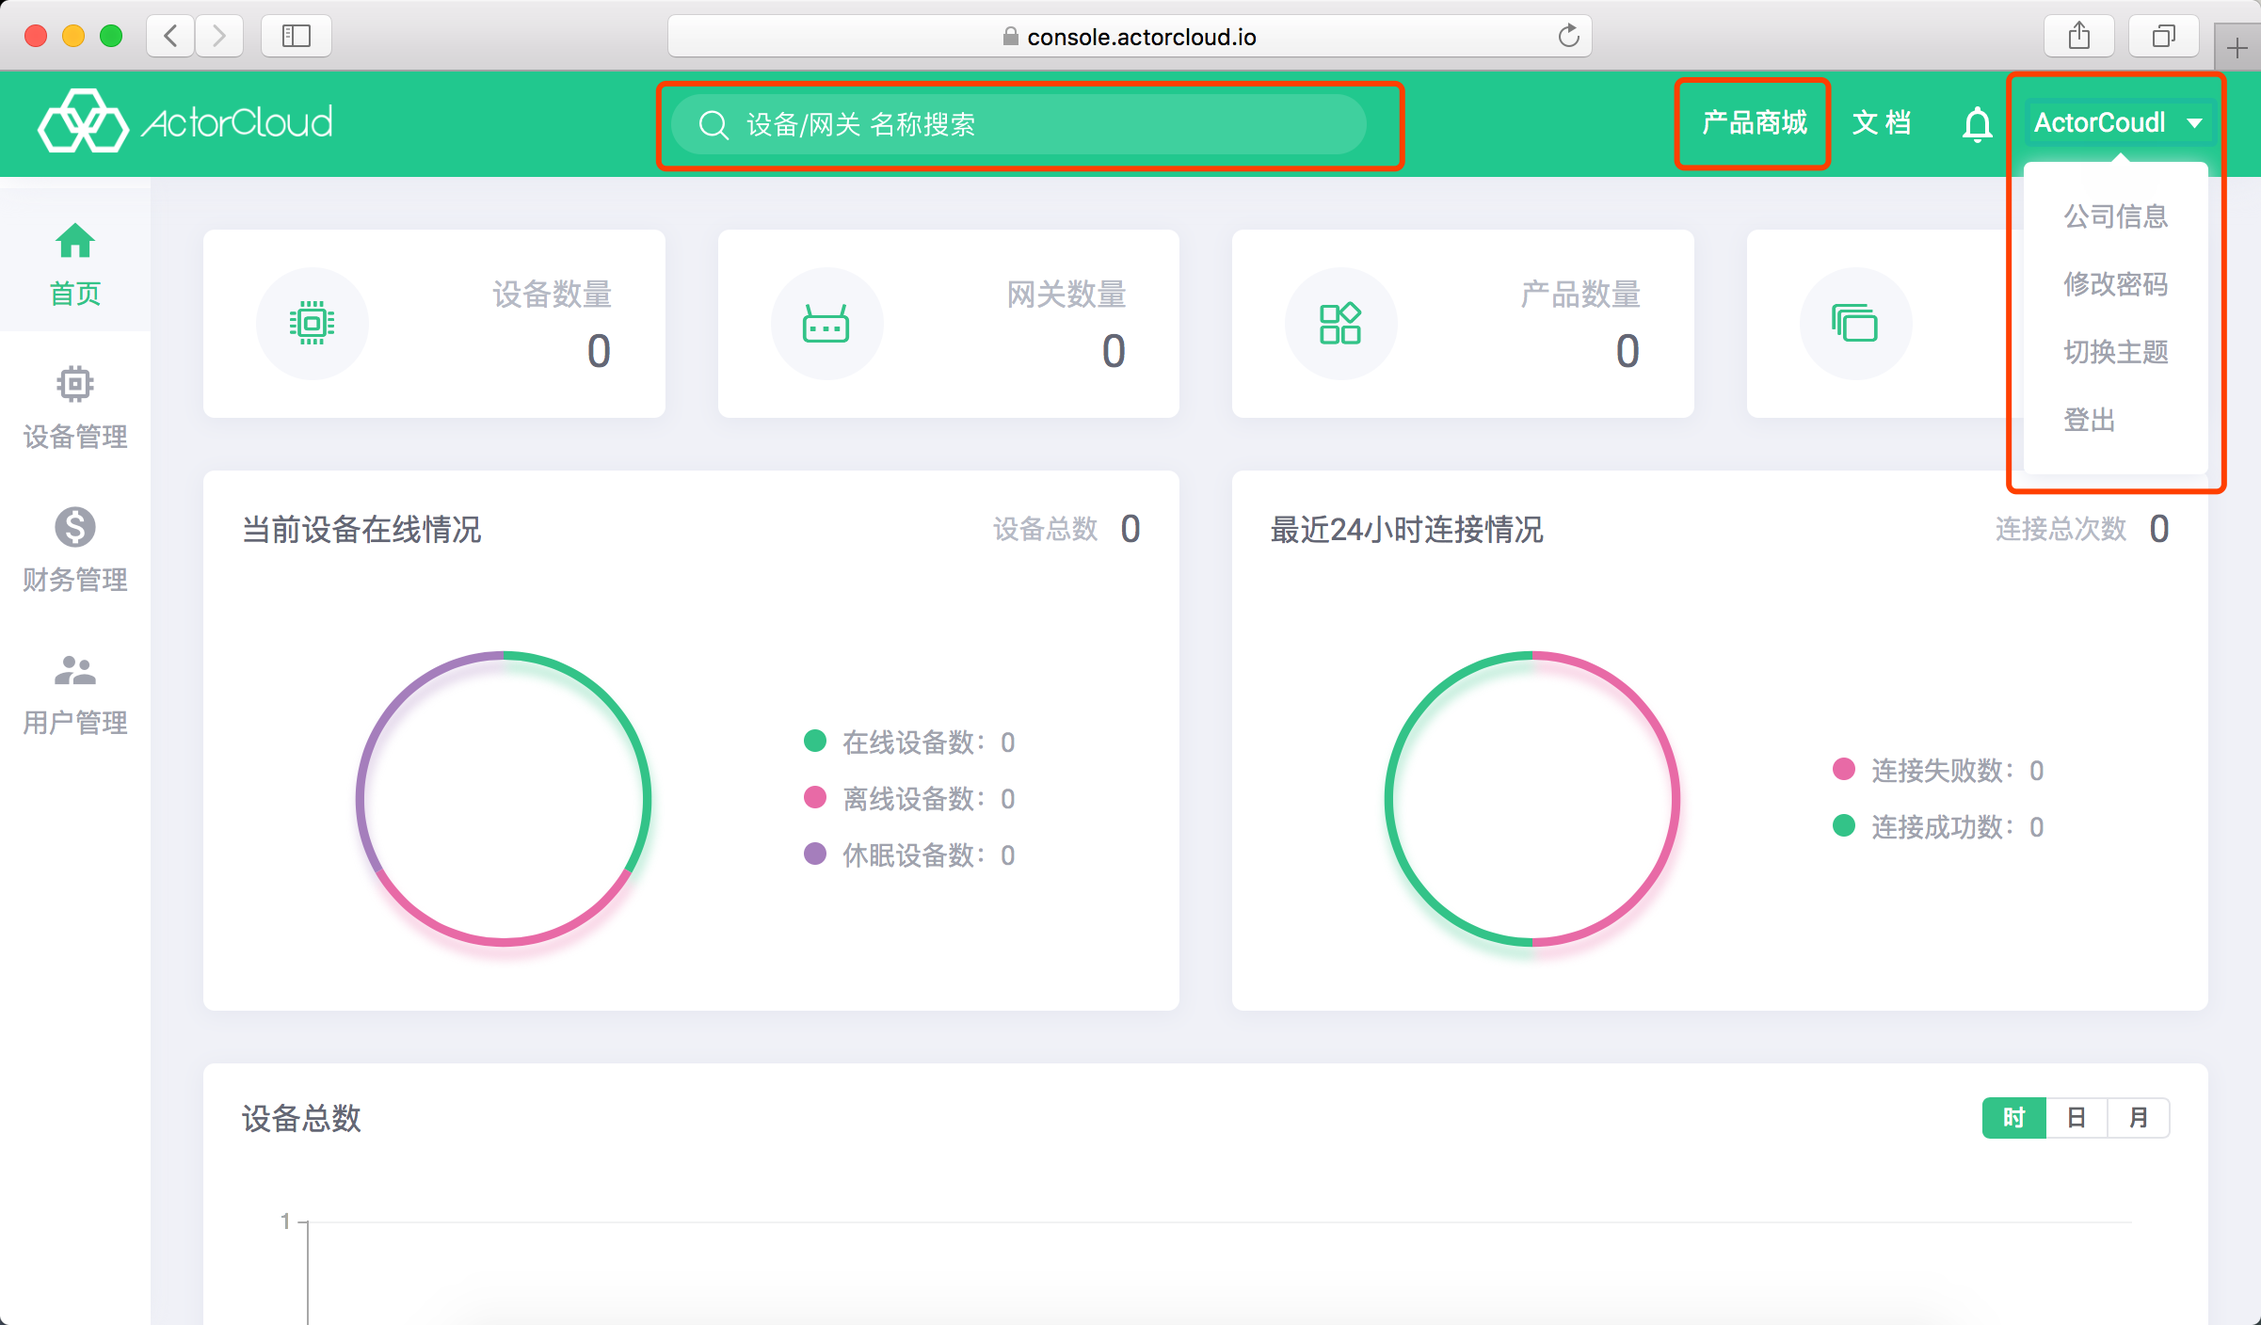
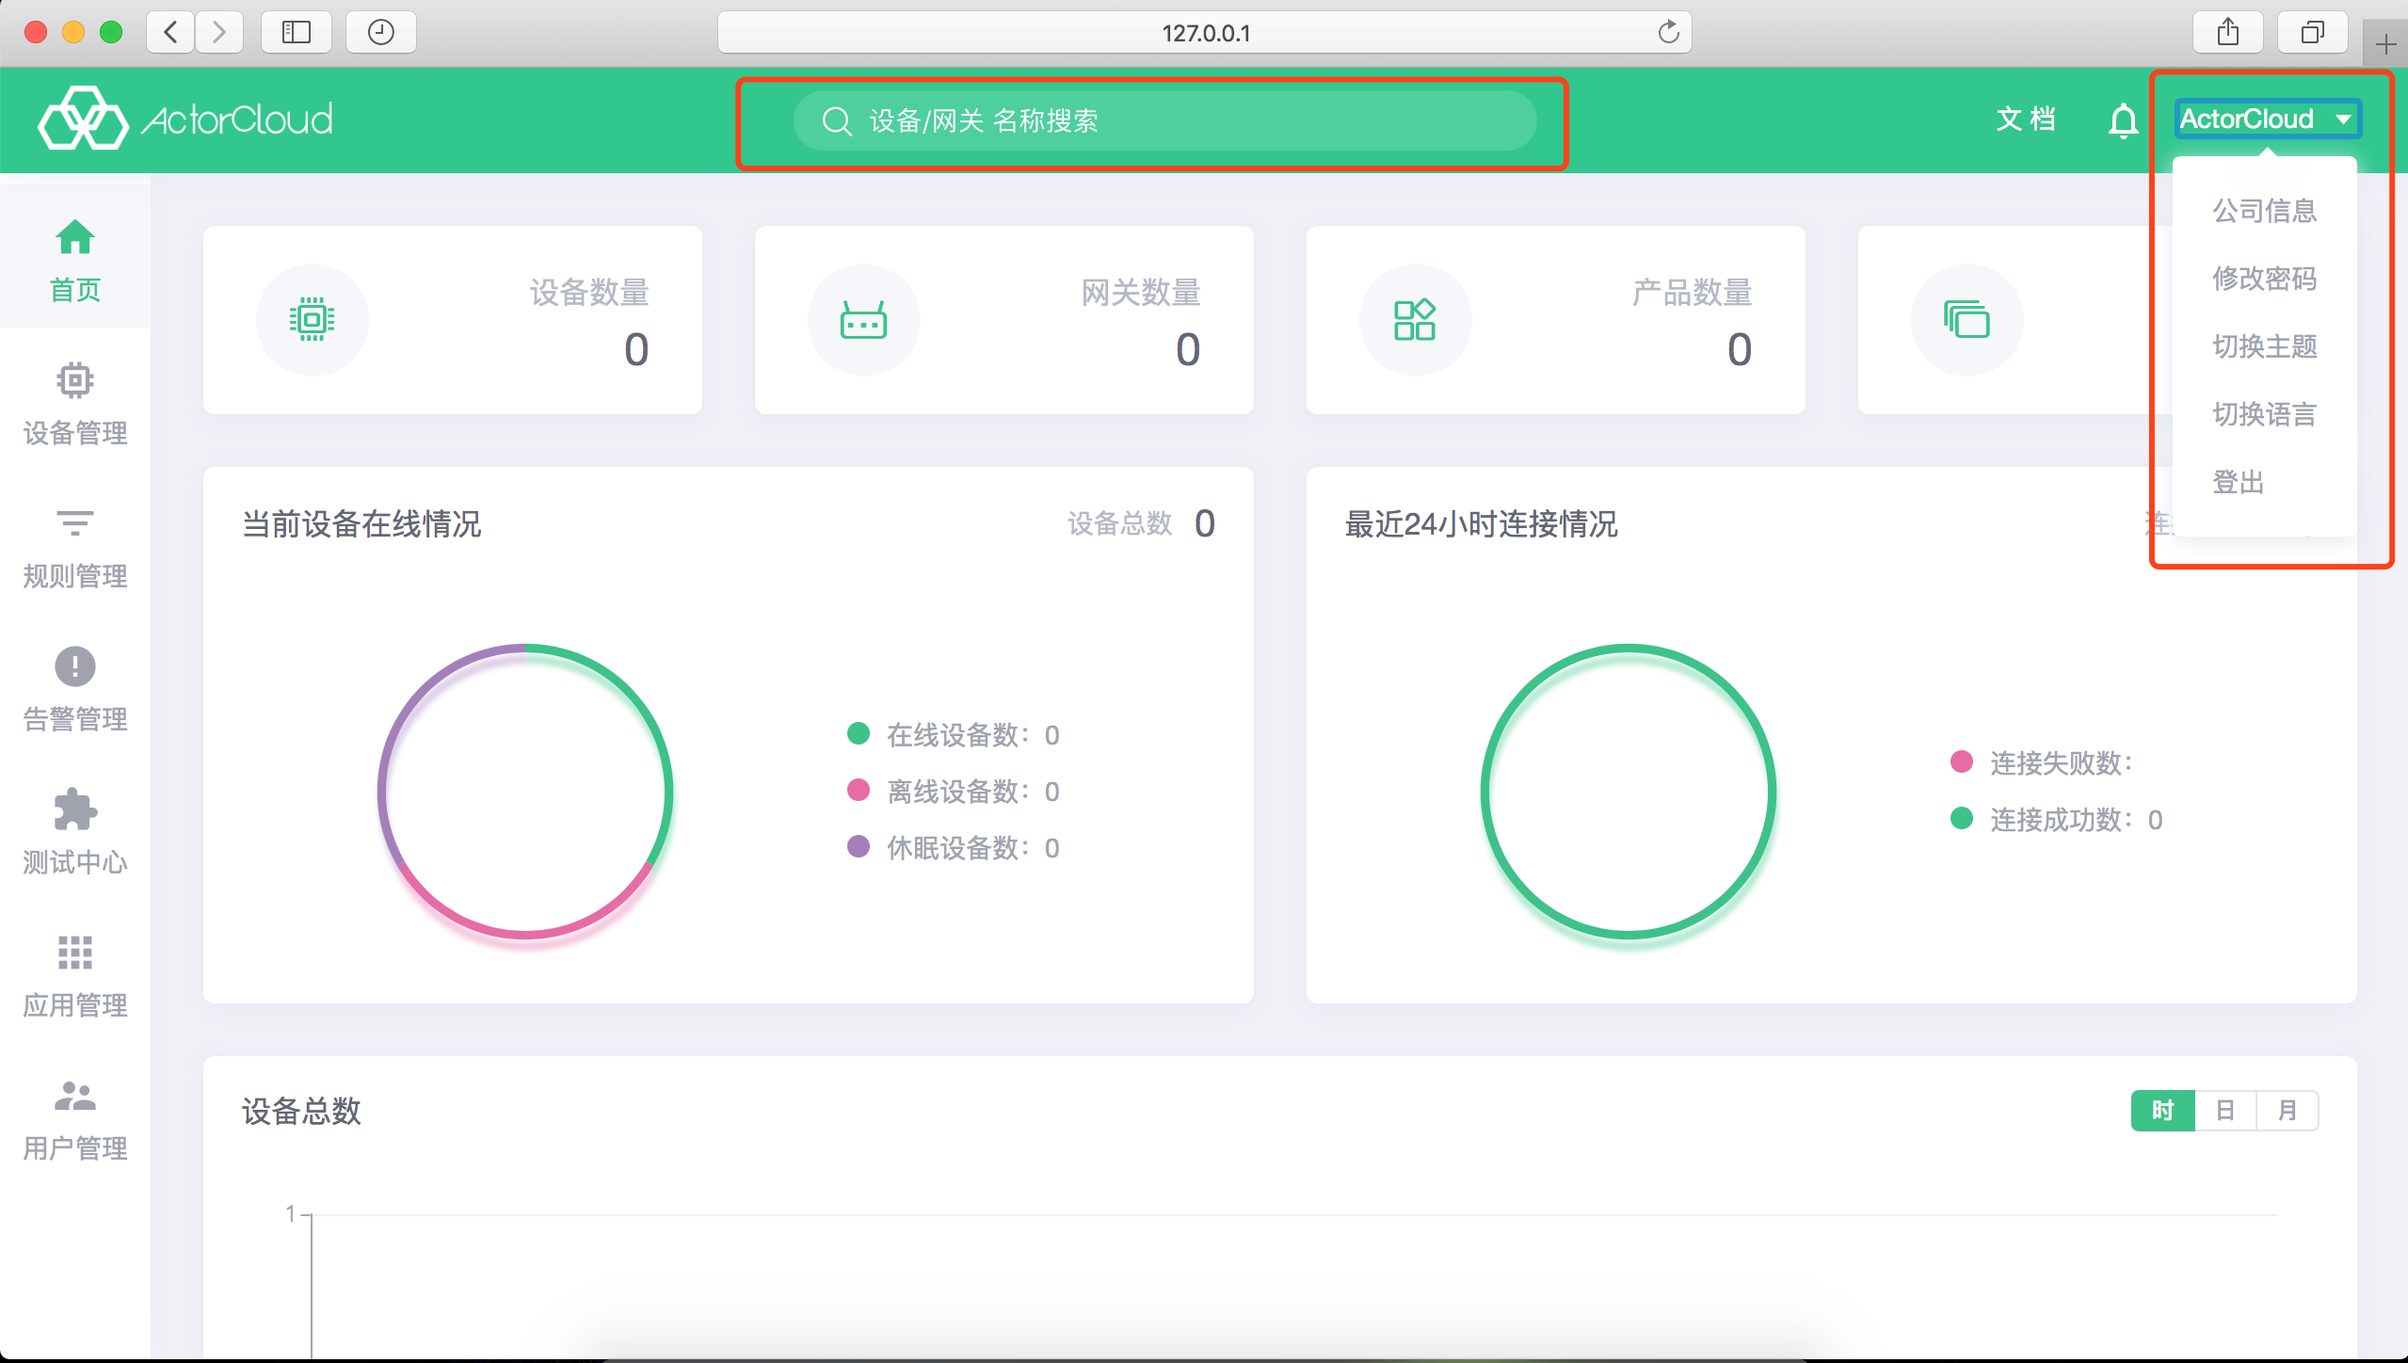
docs(introduction): upgrade introduction and notice

diff --git a/zh/access_guide/notice.md b/zh/access_guide/notice.md
@@ -16,33 +16,35 @@
 
    新建产品详细操作请参考[创建产品](/device/product_create.md)。
 
-2. #### 新建功能点
+2. #### 新建数据流
 
-   选择 设备管理-> 产品管理，产品列表页找到上一步创建的产品“**空调**”，点击名称，进入产品详情页面，选择“**功能点**”选项卡，点击右上角“新建”。
+   选择“**功能定义**”选项卡，点击右上角“新建”。
 
-   创建一个功能点“**模式**”，输入功能点标识（必填，不可重复）“**mode**”，数据类型选择“**字符串**”，数据传输类型选择“**可上报可下发**”，点击“完成”，新建功能点成功。
-
-   ![](/assets/example_datapoint_create_1.png)
-
-   再创建一个功能点“**温度**”，输入功能点标识“**temperature**”，数据类型选择“**数值**”，数据传输类型选择“**可上报可下发**”，点击“完成”，新建功能点成功。
-
-   ![](/assets/example_datapoint_create_2.png)
-
-   功能点详细介绍请参考[功能点](/device/product.md#功能点)。
-
-3. #### 新建数据流
-
-   选择“**数据流**”选项卡，点击右上角“新建”。
-
-   数据流名称填入“**空调状态**”，数据格式选择“**JSON**”，流类型选择“**设备数据上报**”，数据流主题填入“**mode_temp**”，功能点选择上一步创建好的两个功能点“**模式**”“**温度**”，点击完成，成功添加数据流。
+   数据流名称填入“**空调状态**”，数据流标识填入“**temp**”，即为数据流的 ID，流类型选择“**设备数据上报**”，数据流主题填入“**mode_temp**”，备注可选填。
 
    ![](/assets/example_stream_create.png)
 
    数据流详细介绍请参考[数据流](/device/product.md#数据流)。
 
+3. #### 新建功能点
+
+   选择 设备管理-> 产品管理，产品列表页找到上一步创建的产品“**空调**”，点击名称，进入产品详情页面，选择“**功能定义**”选项卡，显示出一个数据流列表，点击刚才创建的数据流那一行顶部箭头，即可展开该行，显示一个子列表，也就是该数据流所绑定的功能点的列表。
+
+   ![](/assets/example_datapoint_create_1.png)
+
+   创建一个功能点，点击子列表中的添加功能点，可以新建一个功能点直接绑定或从之前创建过的功能点列表中选择添加，这里就直接新建一个功能点，功能点名称就为“**模式**”，输入功能点标识（必填，不可重复，即为功能点的 ID）“**mode**”，数据类型选择“**字符串**”，数据传输类型选择“**可上报可下发**”，点击“确定”，新建功能点成功。
+
+   ![](/assets/example_datapoint_create_2.png)
+
+   同样的方法，我们再创建一个功能点“**温度**”，输入功能点标识“**temperature**”，数据类型选择“**数值**”，数据传输类型选择“**可上报可下发**”，点击“确定”，新建功能点成功。
+
+   ![](/assets/example_datapoint_create_3.png)
+
+   功能点详细介绍请参考[功能点](/device/product.md#功能点)。
+
 4. #### 新建设备
 
-   选择 设备管理->新建，新建一个名为"**空调设备**"的设备，所属产品选择第一步创建的产品"**空调**"，设备类型选择"**终端**"，上联系统选择"**云**"，点击"下一步"，认证信息页面点击"完成"，添加设备成功。
+   在产品下，选择“**设备管理**”选项卡，新建一个名为“**空调设备**”的设备，所属产品选择的是第一步创建的产品“**空调**”，上联系统选择“**云**”，点击“下一步”，认证信息页面点击“完成”，添加设备成功。
 
    ![](/assets/example_device_create.png)
 
@@ -50,24 +52,41 @@
 
 5. #### 模拟设备上报数据
 
-   选择 测试中心->MQTT客户端，选择上一步创建好的设备“**空调设备**”，点击启动设备，以模拟设备接入 ActorCloud。
+   选择 测试中心->MQTT 客户端，选择上一步创建好的设备“**空调设备**”，点击启动设备，以模拟设备接入 ActorCloud。
 
    ![](/assets/example_mqtt_run.png)
 
-   在“上报数据”选项卡，输入上面创建的数据流主题“**mode_temp**”，消息字段输入JSON数据“**{"mode":"cold","temperature":25}**”（制冷25度），点击“上报数据”，上报成功，右侧“已上报数据”选项卡可看到上报数据。
+   在“上报数据”选项卡里的主题中，输入上面创建的数据流主题“**mode_temp**”，根据初始模板输入 JSON 数据
+
+  ```json
+  {
+    "data_type": "event",
+    "stream_id": "temp",
+    "data": {
+      "temperature": {
+        "time": 1547661822,
+        "value": 25
+      },
+      "mode": {
+        "time": 1547661822,
+        "value": "clod"
+      }
+    }
+  }
+  ```
+
+  （制冷25度），点击“上报数据”，上报成功，右侧“已上报数据”选项卡可看到上报数据。
 
    ![](/assets/example_mqtt_report.png)
 
-   MQTT客户端详细操作请参考[MQTT客户端](/test_center/mqtt.md#mqtt-客户端)。
+   MQTT 客户端详细操作请参考 [MQTT 客户端](/test_center/mqtt.md#mqtt-客户端)。
 
 6. #### 查看设备上报数据
 
-   设备事件：进入设备管理，找到上面创建的设备“**空调设备**”，点击设备名称进入设备详情页，选择"设备事件"选项卡，可以看到刚刚上报的数据信息。设备事件详细参考[设备事件](/device/device.html#设备事件)。
+   设备事件：进入设备管理，找到上面创建的设备“**空调设备**”，点击设备名称进入设备详情页，选择“设备事件”选项卡，可以看到刚刚上报的数据信息，可查看实时数据和历史数据。设备事件详细参考[设备事件](/device/device.html#设备事件)。
 
    ![](/assets/example_device_event.png)
 
-   原始数据：选择"原始数据"选项卡，可以看到被解析出来的上报数据。原始数据详细参考[原始数据](/device/device.html#原始数据)。
+   功能数据：选择"功能数据"选项卡，可以看到被解析出来的上报数据, 同样可以查看实时数据和历史数据。功能数据详细参考[功能数据](/device/device.html#功能数据)。
 
    ![](/assets/example_device_data.png)
-
-	

diff --git a/zh/device/device.md b/zh/device/device.md
@@ -1,7 +1,7 @@
 ## 设备列表
 
 点击**设备**列表页设备名称，进入设备信息页。该页包括
-**设备信息**、**设备安全**、**子设备**、**设备事件**、**原始数据**、**指标数据**、**设备轨迹**、**设备控制**、**控制台**九个页面，其功能与展示信息如下：
+**设备信息**、**子设备**、**连接日志**、**设备事件**、**功能数据**、**图标数据**、**设备下发** 7 个页面，其功能与展示信息如下：
 
 ![device_](_assets/device_.png)
 
@@ -12,7 +12,7 @@
 - 设备状态信息：设备在线时显示连接时间、客户端 IP、心跳时间；
 - 运行日志：即设备连接上/下线信息；
 - 设备告警：当前设备触发的告警记录；
-- 设备基本信息：设备名称，设备类型认证方式，上联系统、控制台信息等；
+- 设备基本信息：设备名称，设备类型认证方式，上联系统等；
 - 位置信息：在地图上展示设备位置、围栏范围等信息；
 - 终端列表：设备为网关时展示包含终端列表。
 
@@ -57,32 +57,7 @@
 
   ![device_evnets](_assets/device_evnets.png)
 
-
-
-### 原始数据
-
-- 具体功能点数据展示，实时数据将自动刷新展示。
-
-![original_data](_assets/original_data.png)
-
-
-
-### 指标数据
-
-- 按不同的时间维度、聚合方式展示该设备聚合后的功能点数据。
-
-  
-
-
-### 设备轨迹
-
-- 当设备所属产品定义的功能点为位置功能点时，该功能点上报的位置轨迹信息将在地图上展示。
-
-![location_path](_assets/location_path.png)
-
-
-
-### 设备控制
+### 设备下发
 
 - **ActorCloud** 或 **外部应用** 向该设备下发的消息，点击**添加指令**可向当前设备即时或定时发送消息。
 
@@ -108,7 +83,7 @@
 
 - 批量导出：将平台设备导出为 Excel 文件，无需选中设备，设备列表页点击**批量导出**即可导出全部设备；
 - 批量导入：使用 Excel 模板文件导入设备信息；
-- 登录设备：通过 ssh 登录到设备控制台（需设备支持）；
+- 登录设备：通过 ssh 登录到设备下发台（需设备支持）；
 - 指令下发：向选中设备下发指令；
 - 任务配置：配置选中设备定时任务；
 - 创建分组：从选中设备创建分组（仅限同一产品下设备）。

diff --git a/zh/SUMMARY.md b/zh/SUMMARY.md
@@ -8,8 +8,8 @@
 ## 设备管理
 * [产品管理](device/product.md)
   * [创建产品](device/product_create.md)
-  * [功能点](device/product.md#功能点)
   * [数据流](device/product.md#数据流)
+  * [功能点](device/product.md#功能点)
   * [设备列表](device/product.md#设备列表)
 * [设备注册](device/device_create.md)
 * [设备列表](device/device.md#设备列表)
@@ -57,11 +57,9 @@
     * [导出设备](rest/devices-devices.md#导出设备)
     * [导入设备](rest/devices-devices.md#导入设备)
     * [设备事件](rest/devices-devices.md#设备事件)
-    * [设备控制](rest/devices-devices.md#设备控制)
+    * [设备下发](rest/devices-devices.md#设备下发)
     * [新建设备定时任务](rest/devices-devices.md#新建设备定时任务)
     * [删除设备定时任务](rest/devices-devices.md#删除设备定时任务)
-    * [查看设备指标数据](rest/devices-devices.md#查看设备指标数据)
-    * [查看设备原始数据](rest/devices-devices.md#查看设备原始数据)
   * [分组](rest/devices-groups.md)
     * [查看分组列表](rest/devices-groups.md#查看分组列表)
     * [查看分组详情](rest/devices-groups.md#查看分组详情)

diff --git a/zh/test_center/mqtt.md b/zh/test_center/mqtt.md
@@ -62,7 +62,7 @@ def on_connect(client, userdata, flags, rc):
     client.subscribe('some_topic')
 
 
-# 设备控制、分组控制及其他方式 publish 的消息统一在此处理
+# 设备下发、分组控制及其他方式 publish 的消息统一在此处理
 def on_message(client, userdata, msg):
     print('topic: {0}, payload: {1}'.format(msg.topic, str(msg.payload)))
     # 其他处理逻辑
@@ -110,7 +110,7 @@ def on_connect(client, userdata, flags, rc):
     }))
 
 
-# 设备控制、分组控制及其他方式 publish 的消息统一在此处理
+# 设备下发、分组控制及其他方式 publish 的消息统一在此处理
 def on_message(client, userdata, msg):
     print('topic: {0}, payload: {1}'.format(msg.topic, str(msg.payload)))
     # 其他处理逻辑
@@ -172,7 +172,7 @@ def on_connect(client, userdata, flags, rc):
     }))
 
 
-# 设备控制、分组控制及其他方式 publish 的消息统一在此处理
+# 设备下发、分组控制及其他方式 publish 的消息统一在此处理
 def on_message(client, userdata, msg):
     print('topic: {0}, payload: {1}'.format(msg.topic, str(msg.payload)))
     # 其他处理逻辑

diff --git a/zh/device/control.md b/zh/device/control.md
@@ -1,15 +1,15 @@
-# 设备控制
+# 设备下发
 
-通过设备控制功能，用户可以通过平台给设备发送消息，同时平台也提供相应的 API 接口供外部应用调用。
+通过设备下发功能，用户可以通过平台给设备发送消息，同时平台也提供相应的 API 接口供外部应用调用。
 
-设备控制记录在设备详情页**设备控制**标签页中可查看。
+设备下发记录在设备详情页**设备下发**标签页中可查看。
 
 ![](/assets/downstream_device.png)
 
 
-### 设备控制
+### 设备下发
 
-设备详情页中点击**设备控制**标签页，可以查看下发历史并通过平台直接向该设备下发指令。
+设备详情页中点击**设备下发**标签页，可以查看下发历史并通过平台直接向该设备下发指令。
 
 - 下发指令内容必须是 JSON 格式字符串；
 - 如不指定主题，默认下发主题为 `/devices/$device_id/inbox`（当设备使用 MQTT 协议连接至平台时，平台会自动为该设备代理订阅该主题）

diff --git a/zh/introduction.md b/zh/introduction.md
@@ -13,22 +13,17 @@
 > 如果用户通过邀请链接进入注册页面，页面不再提供账户类型选择。
 
 
-
 ### 登录 ActorCloud 平台
 
 - 使用已注册账号的邮箱和密码登录。
 
 ![login.png](assets/login.png)
 
-
-
 ##### 个人用户与企业用户的区别
 
 - 个人用户使用单个账号管理平台，该账号拥有平台全部操作权限，适合单人管理使用；
 
 - 企业用户提供平台管理权限控制，可以直接创建或通过邮件邀请创建多个企业子账号、并赋予适当权限进行平台管理。
-
-  
 
 
 ### 数据概览
@@ -72,3 +67,8 @@
 #### 切换主题
 
 - 平台管理界面提供浅色主题与深色主题，点击此处可以切换显示风格。
+
+
+#### 切换语言
+
+- 平台管理提供中文与英文，点击可快速切换语言。

diff --git a/zh/device/certs.md b/zh/device/certs.md
@@ -65,7 +65,7 @@ def on_connect(client, userdata, flags, rc):
     }))
 
 
-# 设备控制 其他方式 publish 的消息统一在此处理
+# 设备下发 其他方式 publish 的消息统一在此处理
 def on_message(client, userdata, msg):
     print('topic: {0}, payload: {1}'.format(msg.topic, str(msg.payload)))
     # 其他处理逻辑
@@ -145,7 +145,7 @@ def on_connect(client, userdata, flags, rc):
     }))
 
 
-# 设备控制、分组控制及其他方式 publish 的消息统一在此处理
+# 设备下发、分组控制及其他方式 publish 的消息统一在此处理
 def on_message(client, userdata, msg):
     print('topic: {0}, payload: {1}'.format(msg.topic, str(msg.payload)))
     # 其他处理逻辑

diff --git a/zh/access_guide/access_guide.md b/zh/access_guide/access_guide.md
@@ -4,5 +4,5 @@
 
   * [快速接入指南](notice.md)
   * [设备证书](certs.md)
-  * [设备控制](control.md)
+  * [设备下发](control.md)
   * [REST API](rest.md)
